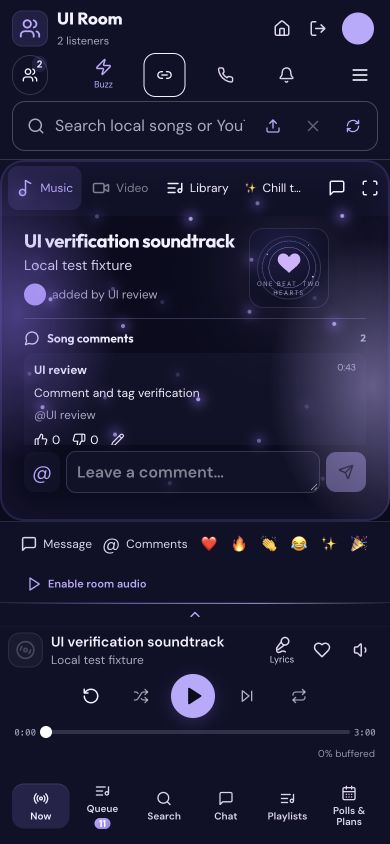
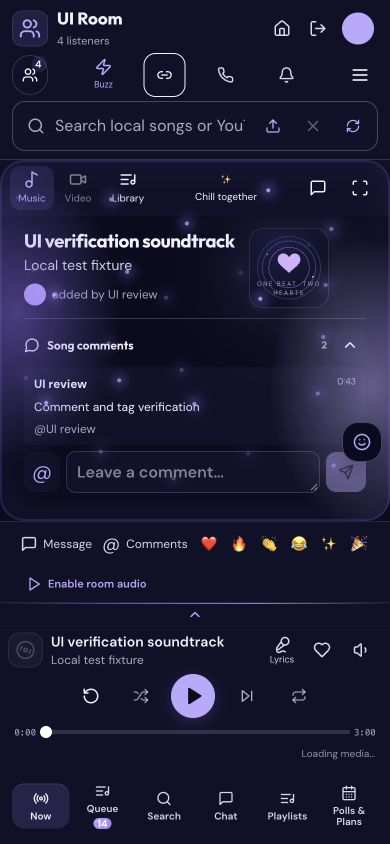
fix: improve mobile music room navigation, comments and YouTube embeds

diff --git a/components/RoomNotifications.tsx b/components/RoomNotifications.tsx
@@ -2,14 +2,17 @@
 import {useEffect,useState} from 'react';
 import {createPortal} from 'react-dom';
 import type {Socket} from 'socket.io-client';
-import {Bell,BarChart3,CalendarDays,X,CheckCheck,MessageCircle,Zap,Heart} from 'lucide-react';
+import {Bell,BarChart3,CalendarDays,X,CheckCheck,Trash2,MessageCircle,Zap,Heart} from 'lucide-react';
 import {buzzSound} from '@/lib/notification-sounds';
 import {Dialog,DialogContent,DialogTitle,DialogDescription} from './ui/dialog';
 type Notice={id:string;kind:'polls'|'plans'|'buzz'|'mention'|'like';text:string;detail:string;at:number};
 export default function RoomNotifications({socket,onOpen,room,onMention}:{socket:Socket|null;room:string;onMention?:()=>void;onOpen:(view:"plans"|"polls"|"call")=>void}){
+ const clearedKey=`kn-notifications-cleared:${room}`;
+ const clearedAt=()=>{try{return Number(localStorage.getItem(clearedKey))||0;}catch{return 0;}};
+ const clear=()=>{try{localStorage.setItem(clearedKey,String(Date.now()));}catch{}setItems([]);setUnread(0);setToast(null);};
  const[items,setItems]=useState<Notice[]>([]),[unread,setUnread]=useState(0),[open,setOpen]=useState(false),[toast,setToast]=useState<Notice|null>(null);
- useEffect(()=>{if(!socket)return;socket.emit('social:get',{},(r:any)=>{if(r?.notifications)setItems(r.notifications);});const receive=(n:Notice)=>{setItems(p=>[...p.filter(x=>x.id!==n.id),n].slice(-60));setUnread(p=>p+1);setToast(n);if(n.kind==='buzz')buzzSound(room);};socket.on('social:notification',receive);return()=>{socket.off('social:notification',receive);};},[socket,room]);
+ useEffect(()=>{if(!socket)return;socket.emit('social:get',{},(r:any)=>{if(r?.notifications)setItems(r.notifications.filter((n:Notice)=>n.at>clearedAt()));});const receive=(n:Notice)=>{setItems(p=>[...p.filter(x=>x.id!==n.id),n].slice(-60));setUnread(p=>p+1);setToast(n);if(n.kind==='buzz')buzzSound(room);};socket.on('social:notification',receive);return()=>{socket.off('social:notification',receive);};},[socket,room]);
  useEffect(()=>{if(!toast)return;const t=setTimeout(()=>setToast(null),6000);return()=>clearTimeout(t);},[toast]);
  const visit=(n:Notice)=>{setOpen(false);setToast(null);if(n.kind==="polls"||n.kind==="plans")onOpen(n.kind);else if(n.kind==="mention"){if(onMention)onMention();else document.getElementById("kn-song-comments")?.scrollIntoView({behavior:"smooth",block:"nearest"});}};
- return <><button className="kn-bell" title="Room notifications" aria-label={`Notifications${unread?`, ${unread} unread`:''}`} onClick={()=>{setOpen(true);setUnread(0);}}><Bell size={17}/>{unread>0&&<b>{Math.min(unread,99)}</b>}</button><Dialog open={open} onOpenChange={setOpen}><DialogContent className="kn-notification-dialog"><DialogTitle>Room notifications</DialogTitle><DialogDescription>Plans, polls, song mentions, and host buzzes.</DialogDescription><button className="kn-background-upload" onClick={()=>setUnread(0)}><CheckCheck size={15}/>Mark all read</button><ul className="kn-notification-list">{items.slice().reverse().map(n=><li key={n.id}><button onClick={()=>visit(n)}>{n.kind==='like'?<Heart size={18}/>:n.kind==='polls'?<BarChart3 size={18}/>:n.kind==='mention'?<MessageCircle size={18}/>:n.kind==='buzz'?<Zap size={18}/>:<CalendarDays size={18}/>}<span><strong>{n.text}</strong><small>{n.detail}</small><time>{new Date(n.at).toLocaleTimeString([],{hour:'2-digit',minute:'2-digit'})}</time></span></button></li>)}</ul>{!items.length&&<p className="text-sm text-muted">Activity will appear here when someone creates a plan or votes.</p>}</DialogContent></Dialog>{toast&&createPortal(<div className="kn-social-toast" role="status"><button onClick={()=>visit(toast)}>{toast.kind==='like'?<Heart size={20}/>:toast.kind==='polls'?<BarChart3 size={20}/>:toast.kind==='mention'?<MessageCircle size={20}/>:toast.kind==='buzz'?<Zap size={20}/>:<CalendarDays size={20}/>}<span><strong>{toast.text}</strong><small>{toast.detail}</small></span></button><button aria-label="Dismiss notification" onClick={()=>setToast(null)}><X size={16}/></button></div>,document.body)}</>;
+ return <><button className="kn-bell" title="Room notifications" aria-label={`Notifications${unread?`, ${unread} unread`:''}`} onClick={()=>{setOpen(true);setUnread(0);}}><Bell size={17}/>{unread>0&&<b>{Math.min(unread,99)}</b>}</button><Dialog open={open} onOpenChange={setOpen}><DialogContent className="kn-notification-dialog"><DialogTitle>Room notifications</DialogTitle><DialogDescription>Plans, polls, song mentions, and host buzzes.</DialogDescription><div className="kn-notification-actions"><button className="kn-background-upload" onClick={()=>setUnread(0)}><CheckCheck size={15}/>Mark all read</button><button className="kn-background-upload" disabled={!items.length} onClick={clear}><Trash2 size={15}/>Clear all</button></div><ul className="kn-notification-list">{items.slice().reverse().map(n=><li key={n.id}><button onClick={()=>visit(n)}>{n.kind==='like'?<Heart size={18}/>:n.kind==='polls'?<BarChart3 size={18}/>:n.kind==='mention'?<MessageCircle size={18}/>:n.kind==='buzz'?<Zap size={18}/>:<CalendarDays size={18}/>}<span><strong>{n.text}</strong><small>{n.detail}</small><time>{new Date(n.at).toLocaleTimeString([],{hour:'2-digit',minute:'2-digit'})}</time></span></button></li>)}</ul>{!items.length&&<p className="text-sm text-muted">Activity will appear here when someone creates a plan or votes.</p>}</DialogContent></Dialog>{toast&&createPortal(<div className="kn-social-toast" role="status"><button onClick={()=>visit(toast)}>{toast.kind==='like'?<Heart size={20}/>:toast.kind==='polls'?<BarChart3 size={20}/>:toast.kind==='mention'?<MessageCircle size={20}/>:toast.kind==='buzz'?<Zap size={20}/>:<CalendarDays size={20}/>}<span><strong>{toast.text}</strong><small>{toast.detail}</small></span></button><button aria-label="Dismiss notification" onClick={()=>setToast(null)}><X size={16}/></button></div>,document.body)}</>;
 }

diff --git a/app/reference-ui.css b/app/reference-ui.css
@@ -628,3 +628,53 @@ body:has(.kn-expanded-player) .kn-message-restore { visibility:visible; }
 @media(max-width:450px){.studio-room .room-media-toolbar { grid-template-columns:minmax(0,2fr) minmax(0,1fr) minmax(0,1fr) 32px 32px; gap:3px; padding-inline:8px; }.studio-room .room-media-toolbar .room-media-modes { min-width:0; }.room-media-toolbar button { gap:4px; font-size:11px; }}
 .chat-heading-actions .kn-media-recipients > summary::before,.chat-heading-actions .kn-media-recipients > summary::after { content:none!important; display:none!important; }
 .kn-media-recipients > .kn-recipient-menu { padding:8px; text-align:left; }
+
+/* Keep room navigation outside transient panels on narrow, dynamic viewports. */
+.kn-search-results { position:fixed!important; left:max(12px,env(safe-area-inset-left)); right:max(12px,env(safe-area-inset-right)); margin:0!important; display:flex; flex-direction:column; min-height:0; overflow:hidden; }
+.kn-search-results > div:last-child { display:flex; flex-direction:column; min-height:0; overflow-y:auto; overscroll-behavior:contain; }
+.kn-search-results [role=listbox] { max-height:none; flex:1; min-height:0; }
+.kn-search-results-heading { display:flex; align-items:center; justify-content:space-between; padding:2px 8px 6px; flex:none; }
+.kn-search-results-heading button,.kn-song-comments h3 > button { display:grid; place-items:center; width:40px; height:40px; flex:none; border-radius:10px; background:var(--field); color:var(--ink); }
+.kn-comment-content:not([hidden]) { display:flex; flex-direction:column; min-height:0; flex:1; gap:6px; }
+.kn-comment-content[hidden] { display:none!important; }
+.kn-comment-content > ul { overflow-y:auto; overscroll-behavior:contain; min-height:0; flex:1; }
+.kn-comment-content > form { flex:none; }
+.kn-song-comments h3 > span { margin-left:auto; }
+.kn-song-comments h3 > button { width:32px; height:32px; }
+.kn-notification-actions { display:flex; align-items:center; gap:8px; flex-wrap:wrap; }
+.kn-notification-actions > button { display:inline-flex; align-items:center; justify-content:center; gap:8px; min-height:44px; flex:1; }
+[data-room-chat] .kn-chat-options { overscroll-behavior:contain; scrollbar-width:thin; touch-action:pan-y; }
+[data-room-chat] .kn-chat-options > * { flex-shrink:0; }
+.studio-room .sw-reaction-dock { display:flex!important; position:absolute; top:50%; bottom:auto; right:8px; z-index:45; }
+.studio-room .sw-reaction-dock-toggle { color:var(--accent-2); background:var(--bg); border-color:var(--input); width:40px; height:40px; }
+.studio-room .sw-side-reactions { background:var(--bg); border-color:var(--input); }
+.studio-room .room-media-toolbar { display:flex!important; align-items:center; gap:6px; overflow-x:auto; overflow-y:hidden; scrollbar-width:thin; flex-shrink:0; }
+.studio-room .room-media-toolbar > * { flex-shrink:0; }
+.studio-room .room-media-toolbar > button[aria-label='Change room mood'] { width:auto; max-width:none; }
+.studio-room .room-media-toolbar > button[aria-label='Change room mood'] span:last-child { max-width:none; overflow:visible; white-space:nowrap; }
+.studio-room .room-media-toolbar .room-media-mode { display:flex; flex-shrink:0; }
+.studio-room .room-media-toolbar button { min-height:40px; }
+.studio-room .room-media-toolbar > .room-chat-toggle { margin-left:auto; }
+@media(max-width:767px){
+ .studio-room main[data-view='chat'] > .room-media-toolbar { display:flex!important; }
+ .studio-room .room-media-toolbar { padding:6px 10px; }
+ .studio-room .room-media-toolbar button { padding-inline:8px; font-size:12px; }
+ .studio-room .kn-player-bar { backdrop-filter:none; }
+ .studio-room .kn-now-card { backdrop-filter:none!important; }
+}
+@media(min-width:768px){.kn-search-results { left:max(280px,calc((100vw - 1100px)/2)); right:20px; }}
+.studio-room .room-media-toolbar .room-media-mode { width:auto; }
+.studio-room .room-media-toolbar > button,.studio-room .room-media-toolbar .room-media-mode button { width:auto; min-width:40px; }
+.studio-room .room-media-toolbar .room-media-mode button { padding-inline:8px; }
+@media(min-width:768px){.studio-room .room-media-toolbar > button:not(.room-chat-toggle):not(.room-focus-toggle),.studio-room .room-media-toolbar .room-media-mode { flex:1; }.studio-room .room-media-toolbar .room-media-mode button { flex:1; }}
+.kn-comment-content > ul:empty { display:none; }
+@media(max-width:767px){
+ .studio-room .room-media-toolbar { gap:4px; }
+ .studio-room .room-media-toolbar .room-media-mode button { flex-direction:column; width:44px; min-width:44px; padding:3px!important; gap:2px; font-size:10px; }
+ .studio-room .room-media-toolbar > button { flex-direction:column; padding:3px 5px; gap:2px; min-width:36px; font-size:10px; }
+ .studio-room .room-media-toolbar > button[aria-label='Open media library'] { min-width:48px; }
+ .studio-room .room-media-toolbar > button[aria-label='Change room mood'] { flex:1; min-width:max-content; }
+ .studio-room .room-media-toolbar > .room-chat-toggle { margin-left:0; }
+}
+.studio-room main[data-view='activities'] > .room-media-toolbar { display:flex!important; order:-1; }
+.room-activities-workspace .room-activities-content { overflow:visible; }

diff --git a/components/SongComments.tsx b/components/SongComments.tsx
@@ -1,7 +1,7 @@
 "use client";
 
 import { useEffect, useRef, useState } from "react";
-import { MessageCircle, Pencil, Send, ThumbsDown, ThumbsUp } from "lucide-react";
+import { ChevronDown, ChevronUp, MessageCircle, Pencil, Send, ThumbsDown, ThumbsUp } from "lucide-react";
 import type { Socket } from "socket.io-client";
 import type { Participant, Track } from "@/lib/types";
 import AnimatedChatText from "./AnimatedChatText";
@@ -10,6 +10,8 @@ type Comment = {id:string;trackId:string;text:string;nick:string;at:number;edite
   canEdit?:boolean;likes:number;dislikes:number;myVote:number};
 
 export default function SongComments({socket, track, members, compact=false}: {compact?:boolean;socket:Socket|null;track:Track|null;members:Participant[]}) {
+  const [collapsed,setCollapsed]=useState(false);
+  useEffect(()=>{const show=()=>setCollapsed(false);window.addEventListener("konnectivity:show-comments",show);return()=>window.removeEventListener("konnectivity:show-comments",show);},[]);
   const [comments,setComments]=useState<Comment[]>([]);
   const [text,setText]=useState("");
   const [tags,setTags]=useState<string[]>([]);
@@ -44,7 +46,8 @@ export default function SongComments({socket, track, members, compact=false}: {c
     finally { setBusy(false); }
   }
   return <section className={`kn-song-comments ${compact?"kn-song-comments-inline":""}`} id={compact?"kn-song-comments-inline":"kn-song-comments"}>
-    <h3><MessageCircle size={16}/>Song comments <span>{shown.length}</span></h3>
+    <h3><MessageCircle size={16}/>Song comments <span>{shown.length}</span><button type="button" aria-label={collapsed?"Show song comments":"Hide song comments"} aria-expanded={!collapsed} onClick={()=>setCollapsed(v=>!v)}>{collapsed?<ChevronDown size={18}/>:<ChevronUp size={18}/>}</button></h3>
+    <div className="kn-comment-content" hidden={collapsed}>
     {!compact&&<p>About “{track.title}” · shared with this room.</p>}
     <ul aria-label="Song comments">{shown.map(comment=><li key={comment.id}>
       <strong>{comment.nick}</strong><time>{new Date(comment.at).toLocaleTimeString([],{hour:"numeric",minute:"2-digit"})}</time>
@@ -69,5 +72,6 @@ export default function SongComments({socket, track, members, compact=false}: {c
     {editing&&<button type="button" className="mt-2 text-xs underline" onClick={()=>{setEditing(null);setText("");}}>Cancel edit</button>}
     {posted&&<p role="status" className="text-sm text-success">Comment posted to the room.</p>}
     {error&&<p role="alert">{error}</p>}
+    </div>
   </section>;
 }

diff --git a/components/SearchPanel.tsx b/components/SearchPanel.tsx
@@ -367,6 +367,23 @@ function SearchPanel({
   };
 
   const showResults = variant === "panel" || open;
+  const [resultBounds,setResultBounds]=useState<{top:number;bottom:number}|null>(null);
+  useEffect(()=>{
+    if(!open||variant!=="overlay")return;
+    const measure=()=>{
+      const room=wrapRef.current?.closest('.studio-room');
+      const toolbar=room?.querySelector('.room-media-toolbar')?.getBoundingClientRect();
+      const header=wrapRef.current?.getBoundingClientRect();
+      const footer=room?.querySelector('.kn-player-bar')?.getBoundingClientRect();
+      const height=window.visualViewport?.height||window.innerHeight;
+      setResultBounds({top:Math.max(header?.bottom||0,toolbar?.bottom||0)+4,bottom:Math.max(8,height-(footer?.top||height)+4)});
+    };
+    measure();const observer=new ResizeObserver(measure);
+    const room=wrapRef.current?.closest('.studio-room');
+    for(const el of [wrapRef.current,room?.querySelector('.kn-player-bar'),room?.querySelector('.room-media-toolbar')])if(el)observer.observe(el);
+    window.addEventListener('resize',measure);window.visualViewport?.addEventListener('resize',measure);
+    return()=>{observer.disconnect();window.removeEventListener('resize',measure);window.visualViewport?.removeEventListener('resize',measure);};
+  },[open,variant]);
   const isEmptyQuery = q.trim().length < 2;
 
   const list = (
@@ -642,7 +659,8 @@ function SearchPanel({
       <div ref={wrapRef} className={cn("relative", className)}>
         {field}
         {showResults && (
-          <div className="sw-glass-strong sw-fade-in absolute inset-x-0 top-full z-50 mt-2 p-2">
+          <div style={resultBounds?{top:resultBounds.top,bottom:resultBounds.bottom}:undefined} className="kn-search-results sw-glass-strong sw-fade-in absolute inset-x-0 top-full z-50 mt-2 p-2">
+            <div className="kn-search-results-heading"><strong>Search</strong><button type="button" aria-label="Close search results" onClick={()=>{setOpen(false);inputRef.current?.blur();}}><X size={18}/></button></div>
             {body}
           </div>
         )}

diff --git a/components/Room.tsx b/components/Room.tsx
@@ -233,7 +233,7 @@ export default function Room({ code, asHost, requestingJoin }: { code: string; a
   function openSongComments(){
     if(!current){setNotice("Play a song to comment.");return;}
     setLyricsOpen(false);setSceneOnly(false);setTab("now");
-    requestAnimationFrame(()=>requestAnimationFrame(()=>{const fields=Array.from(document.querySelectorAll<HTMLTextAreaElement>('.kn-song-comments-inline textarea'));fields.find(field=>field.getBoundingClientRect().height>0)?.focus();}));
+    requestAnimationFrame(()=>requestAnimationFrame(()=>{window.dispatchEvent(new Event('konnectivity:show-comments'));const fields=Array.from(document.querySelectorAll<HTMLTextAreaElement>('.kn-song-comments-inline textarea'));fields.find(field=>field.getBoundingClientRect().height>0)?.focus();}));
   }
   const openChatNotice=useCallback(()=>{setPlayerExpanded(false);setSceneOnly(false);setCompanionOpen(true);setTab('chat');setPane('chat');setUnread(0);setDismissedUnread(0);window.dispatchEvent(new Event('konnectivity:open-chat'));},[]);
 
@@ -1802,7 +1802,7 @@ export default function Room({ code, asHost, requestingJoin }: { code: string; a
           way to react at all, the player's own bar not starting until lg.
           Zero-height and absolutely positioned so it overlays whatever is
           above it rather than taking a row of the height a phone hasn't got. */}
-      <aside ref={reactionDockRef} className="sw-reaction-dock lg:hidden" aria-label="Room reactions">
+      <aside ref={reactionDockRef} className="sw-reaction-dock" aria-label="Room reactions">
         {reactionDockOpen && <ReactionBar onReact={(emoji) => { react(emoji); setReactionDockOpen(false); }} className="sw-side-reactions" />}
         <button className="sw-reaction-dock-toggle" aria-label="Reactions" aria-expanded={reactionDockOpen} onClick={() => setReactionDockOpen(v => !v)}><Smile size={18}/></button>
       </aside>

diff --git a/components/RoomGuide.tsx b/components/RoomGuide.tsx
@@ -12,6 +12,12 @@ const steps = [
   ["Chat and call", "Open Chat and tap + to attach photos, GIFs, video, voice notes, or your device location. Use the phone icon for calls and Polls & Plans to make decisions together."],
   ["Name the room and set the mood", "Use Room name to name this group. The host can tap Mood to set the atmosphere, or Buzz to notify one listener or everyone."],
   ["Add your profile picture", "Tap Profile, then Upload photo or GIF. Add a status and tap Save profile. The room can see your picture and status."],
+  ["Comments and listener tags", "Tap Comments below the artwork. Type @ to choose a listener inline. Use the chevron beside Song comments to hide or restore the thread; your draft stays in place."],
+  ["Lyrics and reactions", "Tap Lyrics in the player to read along in the room. Use the smile button at the right for reactions, even with artwork hidden. The heart likes the current song."],
+  ["Notifications", "The bell opens room notifications. Mark them read or Clear all to remove them from this device. New activity will still appear."],
+  ["Polls and plans", "Open Polls & Plans from the bottom tabs. Delete individual poll options, share a meeting location, or expand the panel. Leaving this tab keeps your draft; use Clear draft to discard it."],
+  ["Room settings", "Open the menu, then Room management for hosts, listener permissions, device sync, room name, avatar and integrations. Nested settings have a Back button. Your personal profile stays under your avatar."],
+  ["Playback readiness", "The timeline shows the media buffered on this device. Ready ahead measures the playable range after your current position, not a guarantee against network, decoding or synchronization waits."],
   ["Invite someone", "Use Share to copy the invitation. The host can approve join requests in People. Replay this guide from Settings."],
 ] as const;
 

diff --git a/components/ChatPanel.tsx b/components/ChatPanel.tsx
@@ -89,6 +89,7 @@ function ChatPanel({
   const locationRequest=useRef(0);
   const [optionsOpen,setOptionsOpen]=useState(false);
   const optionsPanel=useRef<HTMLDivElement>(null),optionsButton=useRef<HTMLButtonElement>(null);
+
   const videoInput=useRef<HTMLInputElement>(null);
   const [image, setImage] = useState<ChatMsg["image"]>();
   const [uploading, setUploading] = useState(false);
@@ -111,6 +112,16 @@ function ChatPanel({
   const [searchOpen,setSearchOpen]=useState(false),[search,setSearch]=useState("");
   const [reply,setReply]=useState<ChatMsg>(),[editing,setEditing]=useState<ChatMsg>();
   const [recording,setRecording]=useState(false);
+  useEffect(()=>{
+    if(!optionsOpen&&!recording)return;
+    const measure=()=>{
+      const button=optionsButton.current,panel=optionsPanel.current;if(!button||!panel)return;
+      const header=button.closest('.studio-room')?.querySelector('.studio-header')?.getBoundingClientRect();
+      panel.style.maxHeight=`${Math.max(96,button.getBoundingClientRect().top-Math.max(window.visualViewport?.offsetTop||0,header?.bottom||0,button.closest('.studio-room')?.querySelector('.room-media-toolbar')?.getBoundingClientRect().bottom||0)-16)}px`;
+    };
+    measure();window.visualViewport?.addEventListener('resize',measure);window.addEventListener('resize',measure);
+    return()=>{window.visualViewport?.removeEventListener('resize',measure);window.removeEventListener('resize',measure);};
+  },[optionsOpen,recording]);
   const recordingChanged = (value:boolean) => { setRecording(value); onRecordingChange(value); };
   const beginReply = (message:ChatMsg) => {
     if(muted || message.privateMedia)return;

diff --git a/components/YouTubePlayer.tsx b/components/YouTubePlayer.tsx
@@ -37,7 +37,15 @@ export default function YouTubePlayer(props:Props) {
  useEffect(()=>{localReady.current=false;aligned.current=false;bufferSince.current=0;latest.current.onReadyChange(false,syncKey);},[syncKey]);
  useEffect(()=>{
   let disposed=false;ready.current=false;reported.current=false;setLoaded(false);setError('');setBlocked(false);
-  const element=document.createElement('div');mount.current?.replaceChildren(element);
+  // Set referrer policy before the first embed request. onReady is too late
+  // for YouTube client identification (error 153); never send room query tokens.
+  const element=document.createElement('iframe');
+  element.title=title || 'YouTube video';
+  element.referrerPolicy='strict-origin-when-cross-origin';
+  element.allow='autoplay; encrypted-media; picture-in-picture; fullscreen';
+  element.allowFullscreen=true;
+  element.src=`https://www.youtube.com/embed/${encodeURIComponent(videoId)}?enablejsapi=1&playsinline=1&controls=1&rel=0&origin=${encodeURIComponent(window.location.origin)}`;
+  mount.current?.replaceChildren(element);
   loadApi().then(()=>{
    if(disposed||!window.YT)return;
    const p=new window.YT.Player(element,{videoId,host:'https://www.youtube.com',width:'100%',height:'100%',playerVars:{playsinline:1,controls:0,rel:0,origin:window.location.origin,enablejsapi:1},events:{

diff --git a/components/BottomPlayer.tsx b/components/BottomPlayer.tsx
@@ -107,6 +107,8 @@ export default function BottomPlayer({
   const cachePct = downloadPct ?? 0;
   const bufferedSeconds = bufferedRanges.reduce((sum, [start, end]) => sum + Math.max(0, Math.min(dur, end) - start), 0);
   const bufferedPercent = dur > 0 ? Math.min(100, (dur-bufferedSeconds<.5?100:Math.floor(bufferedSeconds / dur * 100))) : 0;
+  const ahead = Math.max(0, (bufferedRanges.find(([start,end])=>start<=position+.25&&end>position)?.[1] ?? position)-position);
+  const bufferLabel = buffering ? "Waiting for playback…" : ahead > 1 ? `${fmt(ahead)} ready ahead` : "Loading media…";
   const loading = preparing || buffering;
   const canSeek = isHost && dur > 0 && !preparing;
 
@@ -252,7 +254,7 @@ export default function BottomPlayer({
               {fmt(dur)}
             </span>
           </div>
-          {current && !preparing && <span className="kn-buffer-label" aria-label={`Buffered ${bufferedPercent} percent on this device`}>{bufferedPercent}% buffered</span>}
+          {current && !preparing && <span className="kn-buffer-label" title="Media currently buffered ahead on this device; playback can also wait for decoding or room synchronization." aria-label={bufferLabel}>{bufferLabel}</span>}
         </div>
 
         {/* ── right: reactions, cast and volume ── */}

diff --git a/components/RoomPeople.tsx b/components/RoomPeople.tsx
@@ -15,7 +15,7 @@ const playbackLabels: Record<string, string> = {
 };
 type PlaybackStatus = { listeners: {id:string; state:string; position:number|null;audioEnabled:boolean|null}[]; log:{nick:string;state:string;at:number;title:string}[] };
 export type PeopleShortcut = "profile" | "name" | "mood" | "buzz" | "participants" | "admin" | "rename";
-const action = "sw-focus min-h-11 rounded-full border border-white/15 px-4 py-2 text-sm font-semibold hover:bg-white/10";
+const action = "inline-flex items-center justify-center gap-2 text-left sw-focus min-h-11 rounded-full border border-white/15 px-4 py-2 text-sm font-semibold hover:bg-white/10";
 export default function RoomPeople({socket, list, you, isHost, pending, inviteOnly, discoverable, onApprovalChange, onApprove, onDeny, onKick, onMute, onRename, onProfile, onMood, onBuzz, mediaQuery, mood, roomName, onRoomName, shortcut,onHostRole,onBack}: {
  onBack?:()=>void;
  onHostRole?:(id:string,enabled:boolean)=>Promise<void>;

diff --git a/docs/RELEASE_10.06.md b/docs/RELEASE_10.06.md
@@ -37,3 +37,14 @@ The custom server and Node 22+ remain required. Provider access, browser permiss
 ## Attribution
 
 The release retains Syncwave attribution, the inherited LICENSE and NOTICE, and third-party notices. Bundled notification tones in this source distribution are generated UI tones, not personal recordings.
+
+### Mobile usability follow-up
+
+- Collapsible song comments retain drafts; the Comments action restores the thread.
+- Search results close independently and stay between persistent room navigation and the player.
+- Attachment actions scroll within the available viewport, including when the keyboard changes its height.
+- Notifications can be cleared on the current device; new notifications continue arriving.
+- Profile action icons and labels share one baseline. Mood labels and reactions remain reachable with artwork hidden.
+- YouTube embeds set an origin-only referrer policy before loading to address error 153 without exposing invitation query strings. Provider embedding restrictions still apply.
+- Playback readiness shows the contiguous media buffered ahead instead of treating a percentage as a guarantee of uninterrupted playback. Physical iPhone foreground/background stalls still require device verification.
+- The room guide now covers comments, tags, lyrics, reactions, notifications, drafts and nested settings.

diff --git a/README.md b/README.md
@@ -140,3 +140,9 @@ This branch is **10.06** (`package.json`: `10.6.0`). Earlier release branches re
 Konnectivity builds on [Syncwave](https://github.com/SAKMZ/syncwave). Thank you to its original creators, maintainers and contributors. Upstream notices and the **PolyForm Noncommercial 1.0.0** license are preserved in [LICENSE](LICENSE) and [NOTICE](NOTICE). This is a source-available, noncommercial distribution, not an OSI open-source license or an affiliation with the upstream project.
 
 Only upload and access media you are authorized to use. Optional services have their own terms and availability. No personal songs, cookies, API keys, room data or account credentials are included in this source release.
+
+### Mobile search navigation
+
+Search closes independently while room controls, the music player and bottom tabs stay visible.
+
+<img src="docs/screenshots/10.06-mobile-search-navigation.png" width="260" alt="Konnectivity mobile music search with persistent navigation and a close button" />
